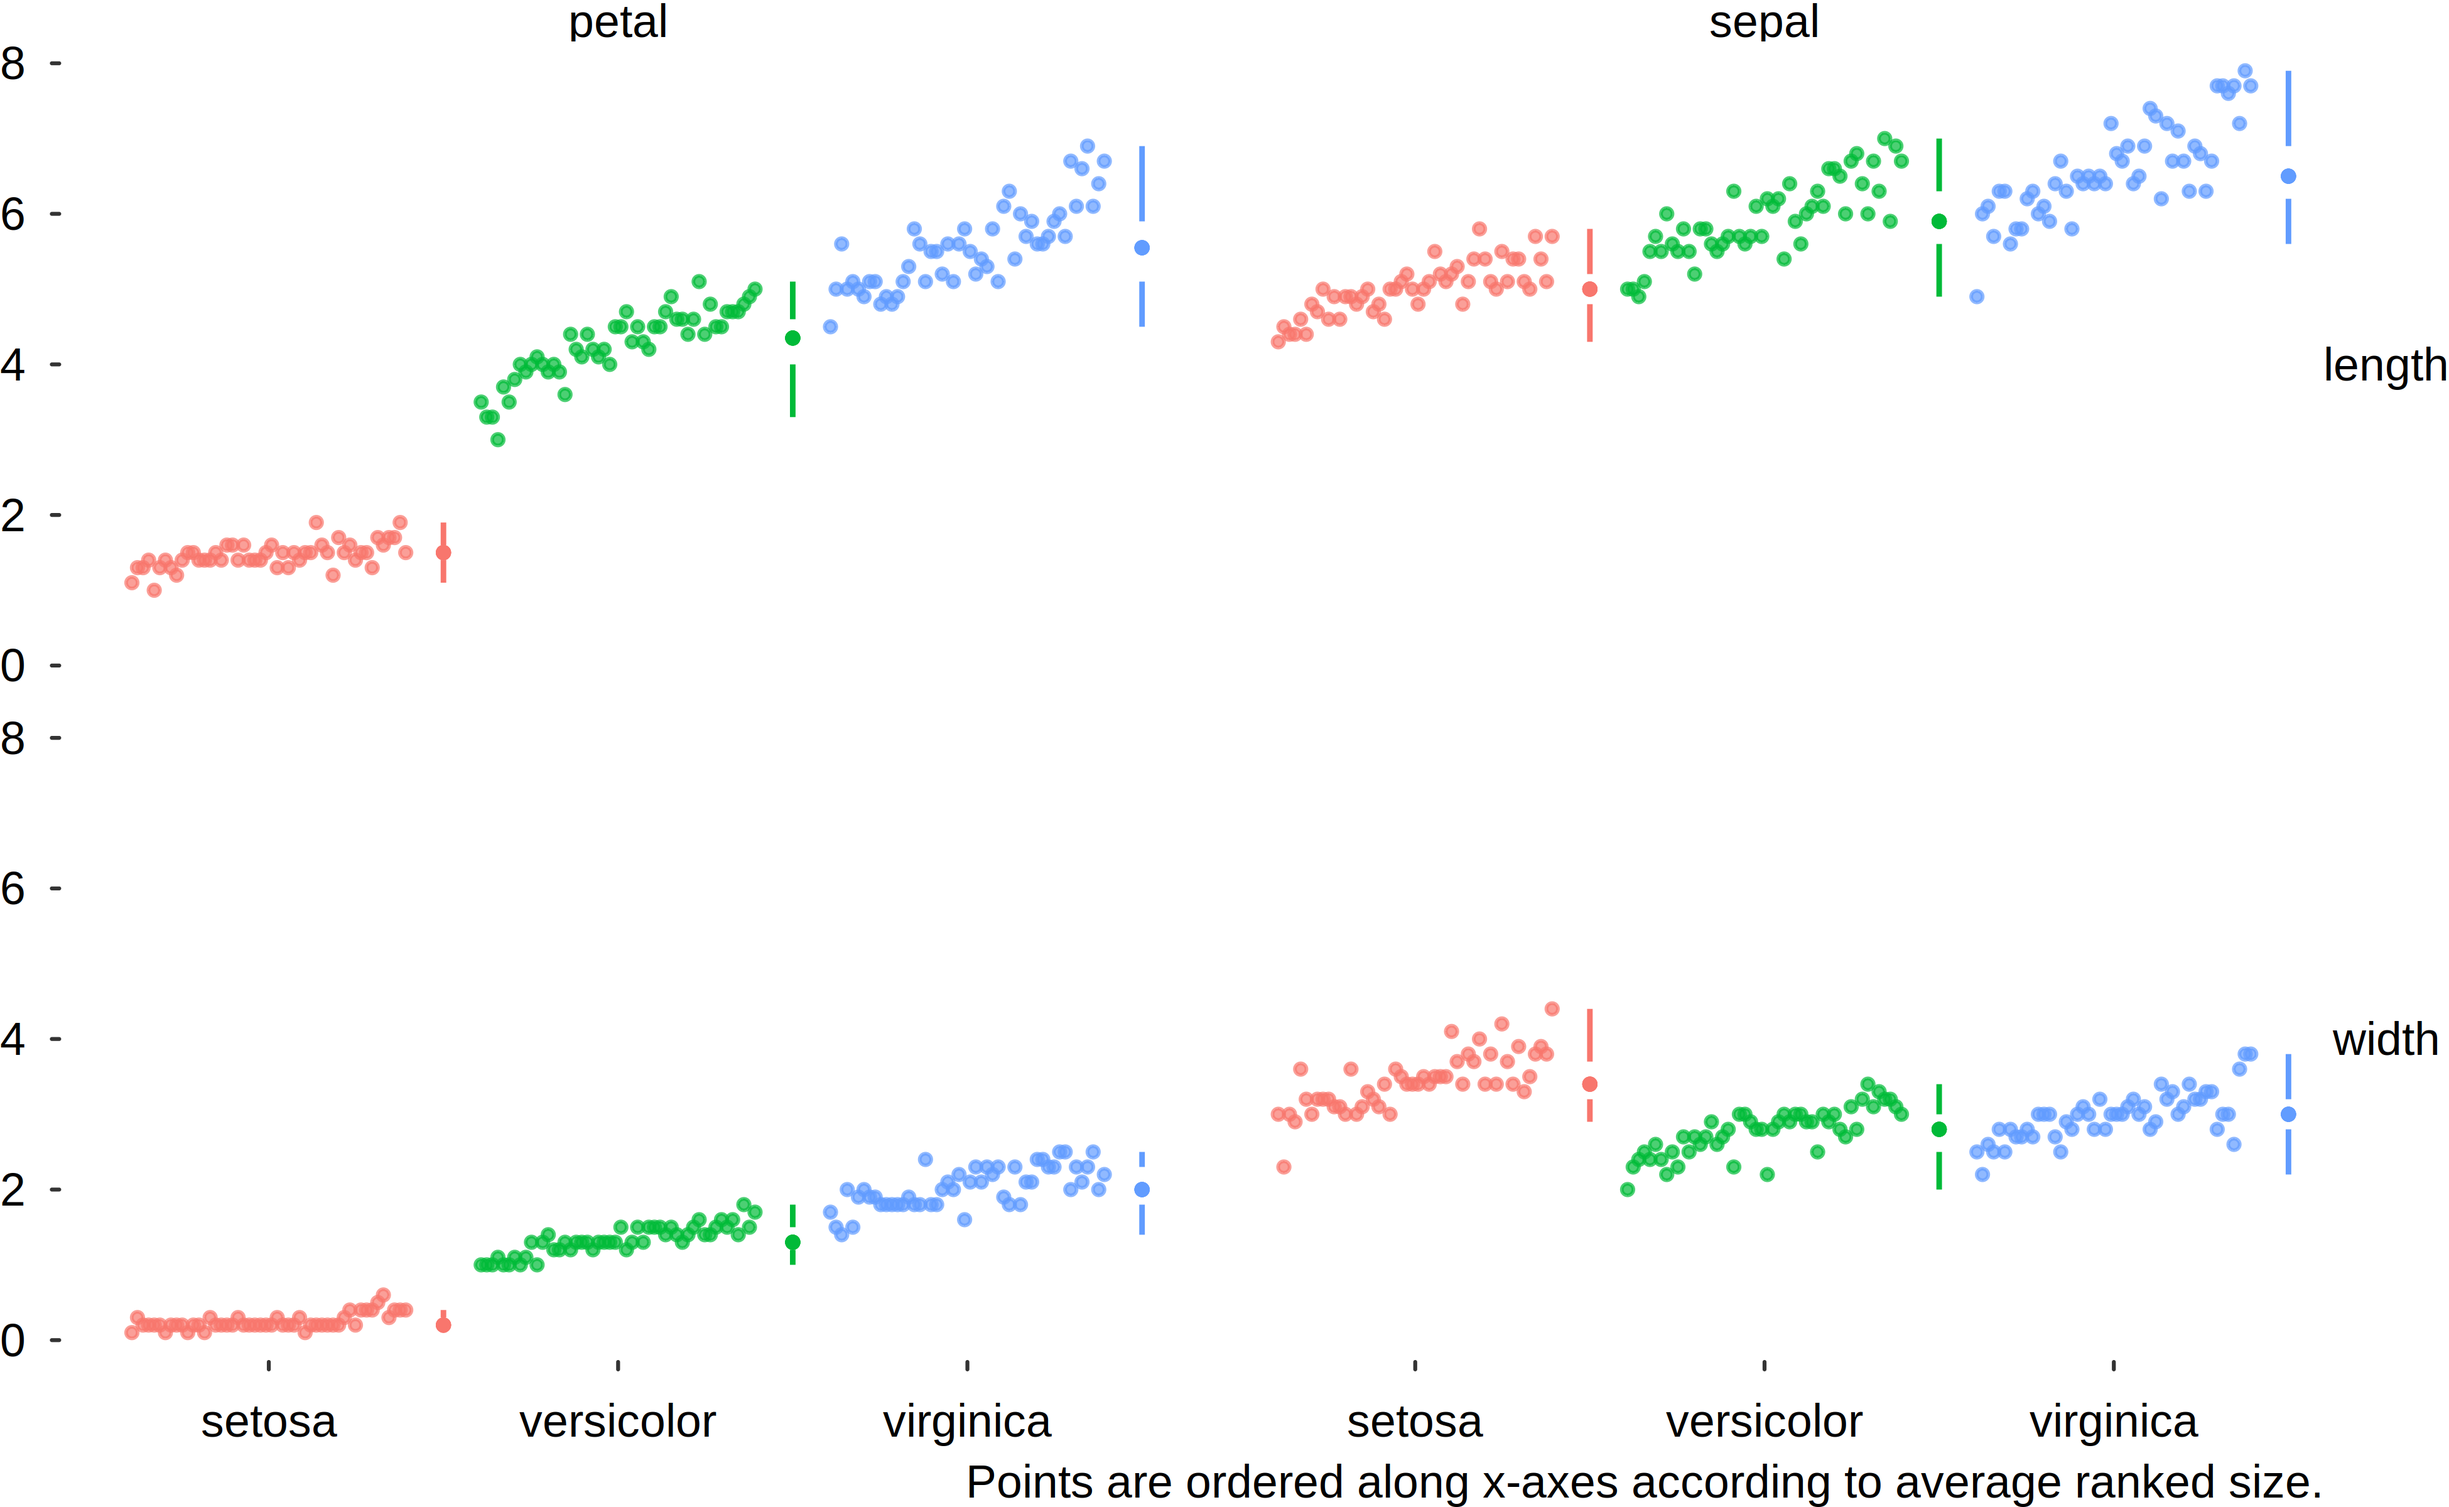
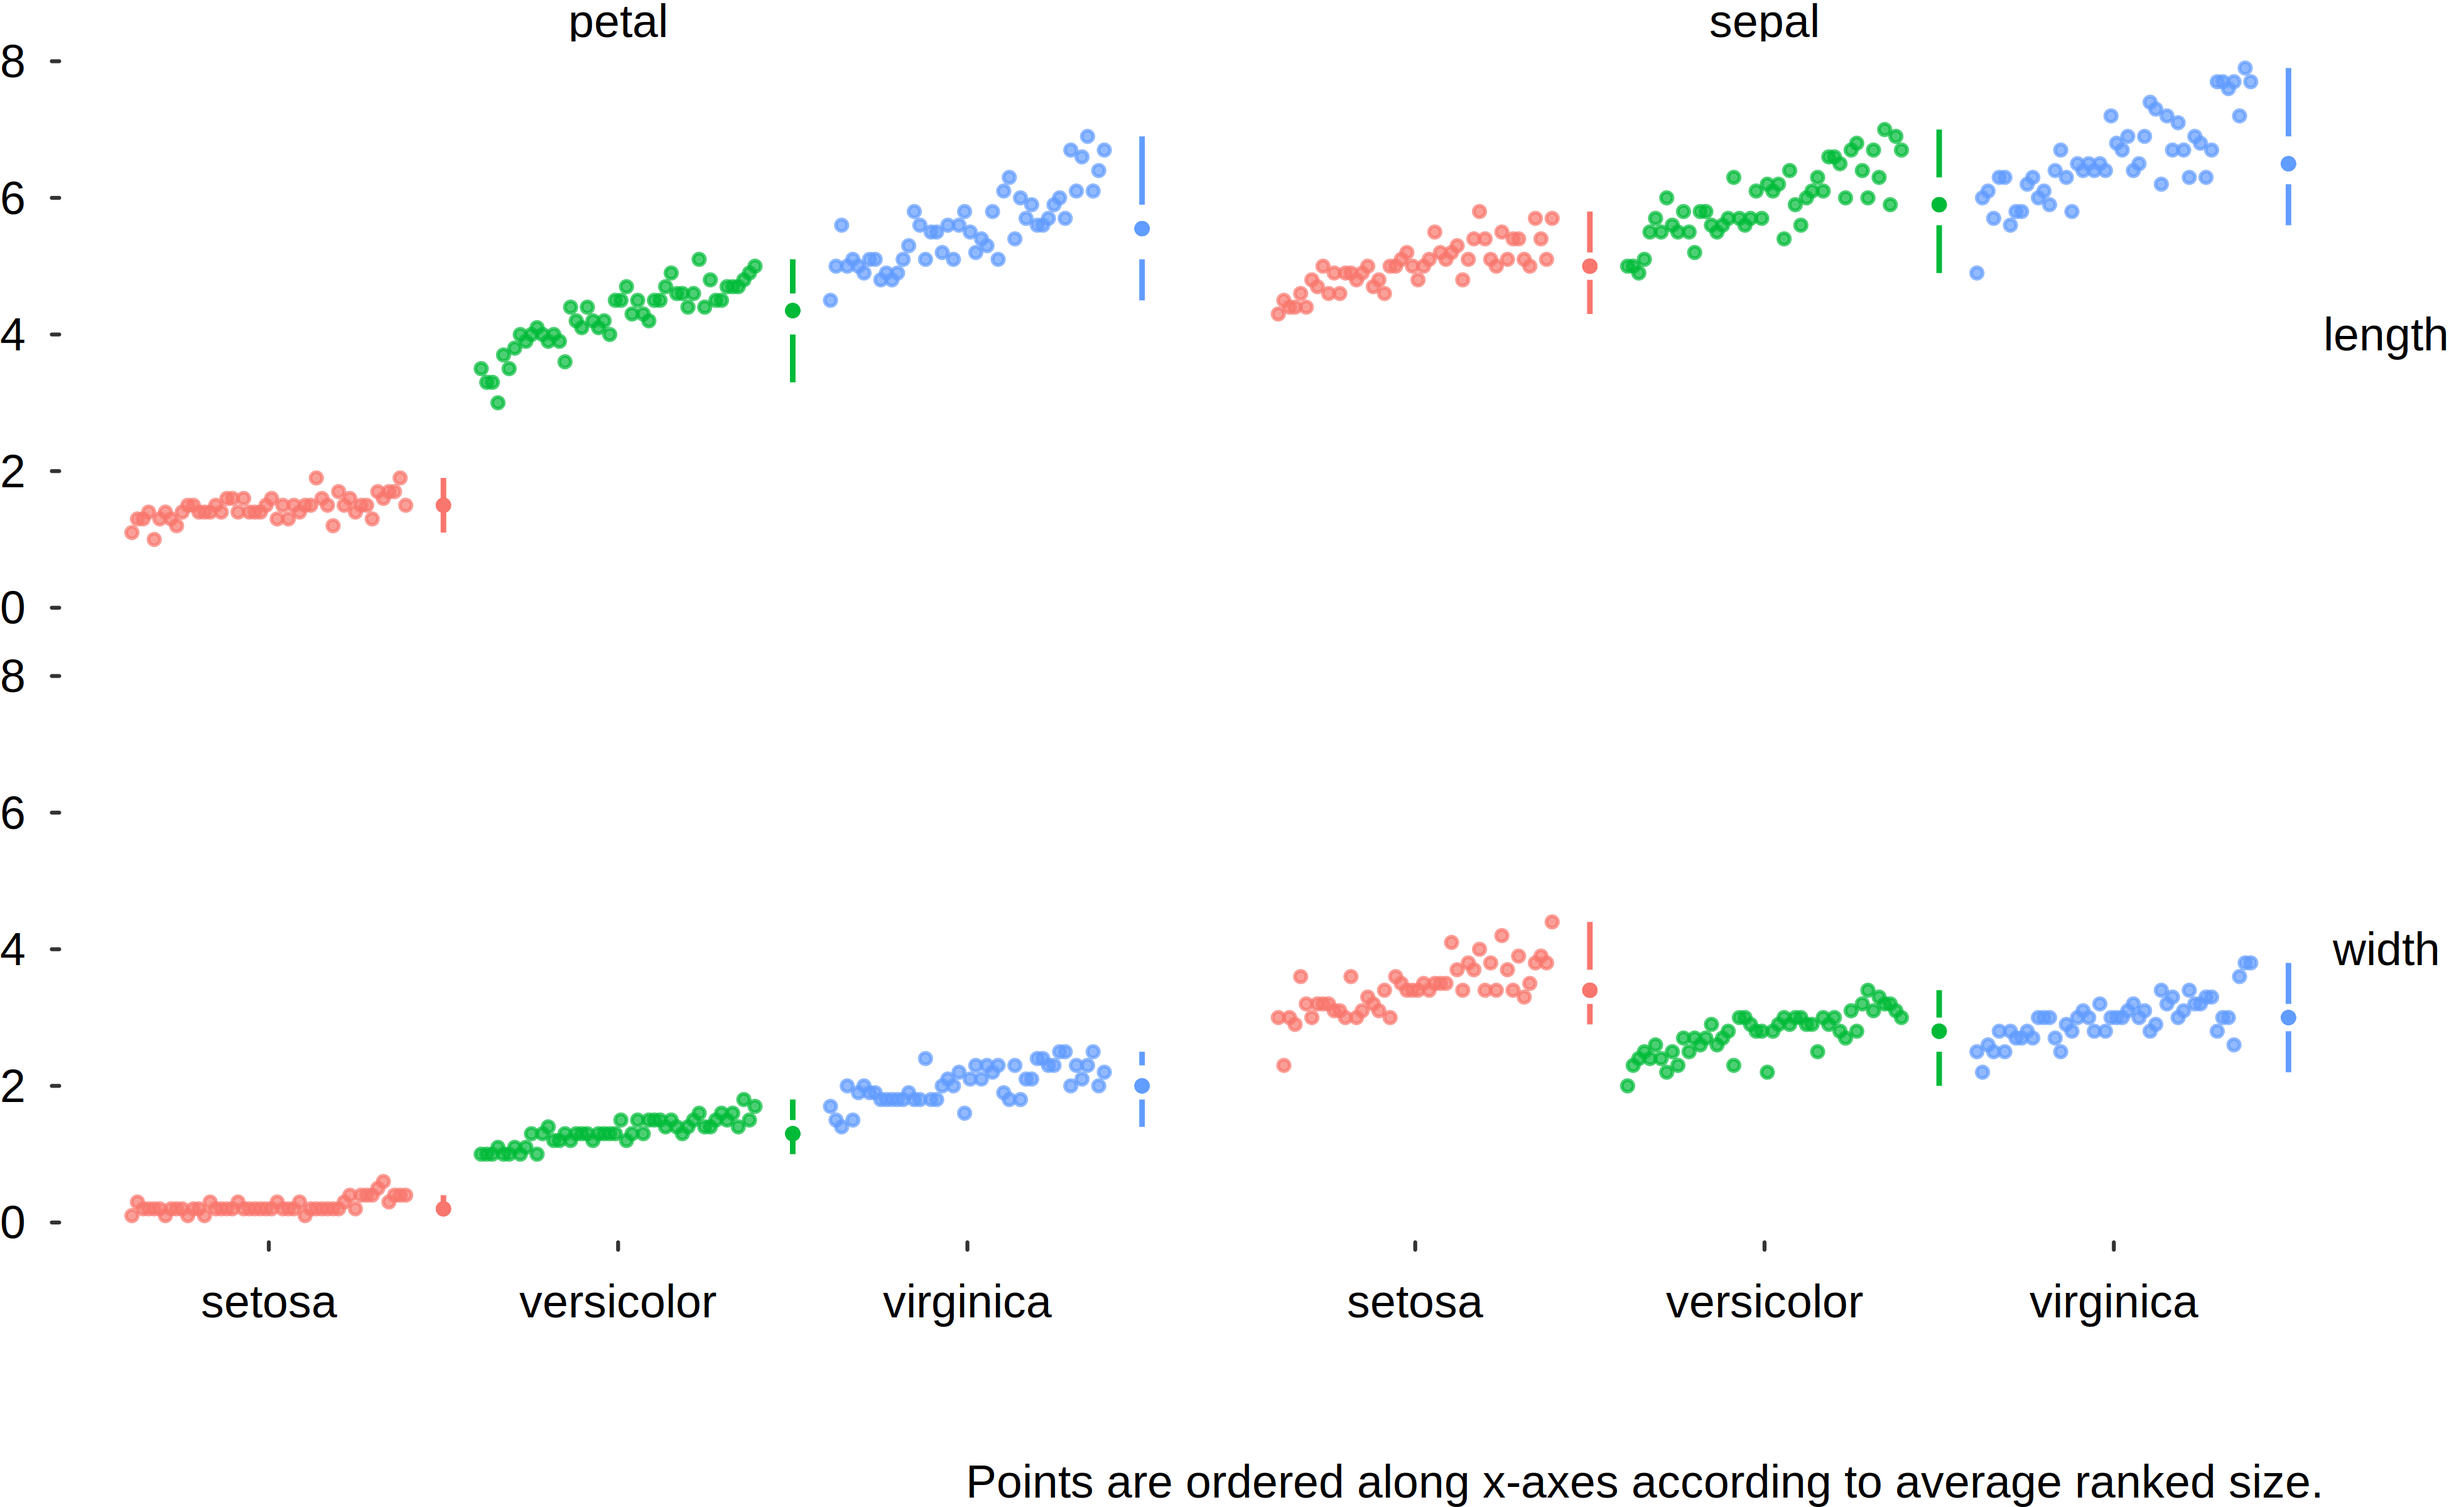
change boarder

diff --git a/docs/01strip.html b/docs/01strip.html
@@ -1588,7 +1588,8 @@ theme_void() +
         axis.text = element_text(size = rel(0.8)),
         legend.position = &quot;none&quot;,
         axis.text.x = element_text(margin = margin(t = 5), vjust = 0),
-        axis.text.y = element_text(margin = margin(r = 5), hjust = 0)) + 
+        axis.text.y = element_text(margin = margin(r = 5), hjust = 0),
+        plot.caption = element_text(margin = unit(c(1, 0, 0, 0), &quot;cm&quot;))) + 
   NULL
 plot(point)</code></pre>
 <p><img src="01strip_files/figure-html5/unnamed-chunk-23-1.png" width="1950" /></p>
